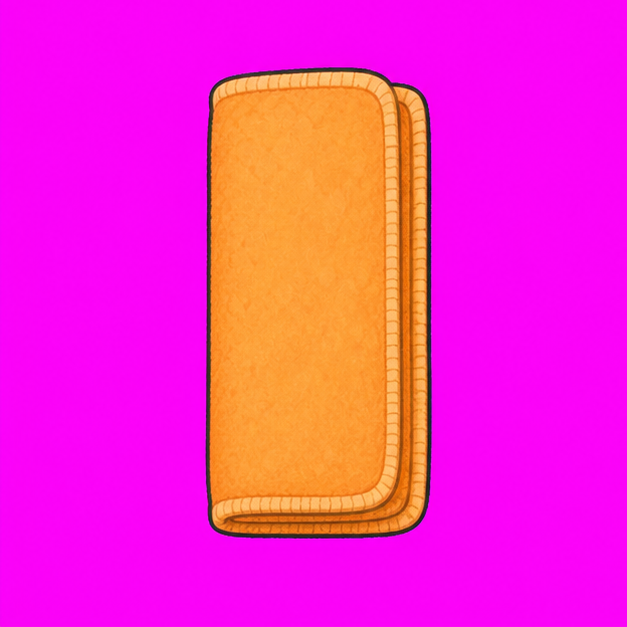
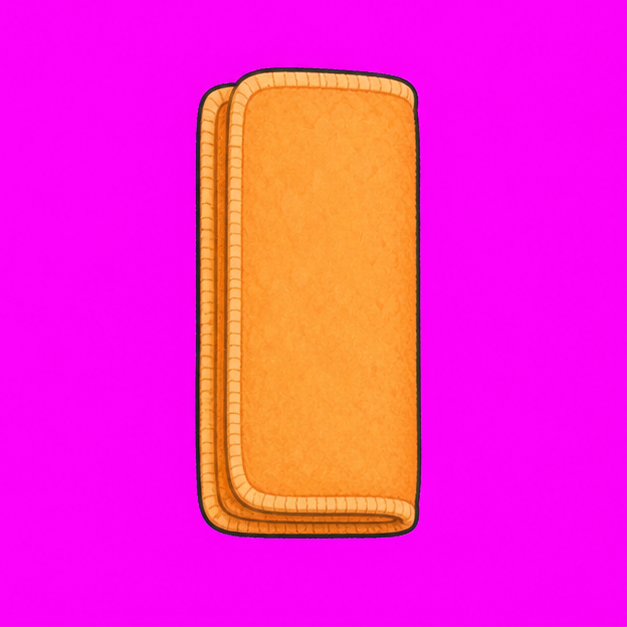
Expand Laundry Sorter pattern matching

Changed region(s): [[0.303, 0.0909, 0.697, 0.8788]]

diff --git a/games/laundry-sorter/js/main.js b/games/laundry-sorter/js/main.js
@@ -27,7 +27,7 @@ const state = {
   selected: null,
   foldIndex: 0,
   foldStep: 0,
-  matchedColors: [],
+  matchedDesigns: [],
   muted: false,
   fast: false,
   seed: 42,
@@ -38,6 +38,8 @@ let sortItems = [];
 let activeBins = [];
 let previousSortColors = '';
 let pairCards = [];
+let pairDeckCursor = 0;
+let activePairDeck = null;
 let rng = mulberry32(state.seed);
 let roundSerial = 0;
 let disposers = [];
@@ -59,7 +61,7 @@ function preloadCriticalImages() {
       ...(item.items || []).map((entry) => entry.art),
       ...(item.bins || []).map((entry) => entry.art),
       ...(item.foldItems || []).flatMap((entry) => entry.stages.map((stage) => stage.art)),
-      ...(item.colors || []).filter((entry) => typeof entry === 'object').map((entry) => entry.art),
+      ...(item.designs || []).map((entry) => entry.art),
     ]),
   ]);
   return Promise.all([...urls].map((url) => new Promise((resolve) => {
@@ -188,12 +190,14 @@ function showSplash({ greet = true } = {}) {
   state.selected = null;
   state.foldIndex = 0;
   state.foldStep = 0;
-  state.matchedColors = [];
+  state.matchedDesigns = [];
   mode = null;
 
   const sortMode = config.modes.find((item) => item.id === 'sort');
   const foldMode = config.modes.find((item) => item.id === 'fold');
   const pairMode = config.modes.find((item) => item.id === 'pairs');
+  const splashPair = pairMode.designs.find((item) => item.id === 'purple-moons')
+    || pairMode.designs[0];
   const cards = [
     {
       mode: sortMode,
@@ -206,8 +210,8 @@ function showSplash({ greet = true } = {}) {
     },
     {
       mode: pairMode,
-      art: `<img class="art-left" src="${YELLOW_SOCK}" alt="">
-            <img class="art-right" src="${YELLOW_SOCK}" alt="">`,
+      art: `<img class="art-left" src="${splashPair.art}" alt="">
+            <img class="art-right" src="${splashPair.art}" alt="">`,
     },
   ];
 
@@ -264,7 +268,7 @@ async function startMode(modeId) {
   state.selected = null;
   state.foldIndex = 0;
   state.foldStep = 0;
-  state.matchedColors = [];
+  state.matchedDesigns = [];
   rng = mulberry32((state.seed + Math.imul(roundSerial, 0x9e3779b9)) >>> 0);
   roundSerial += 1;
 
@@ -764,20 +768,26 @@ async function swapFoldStage(image, direction, nextArt) {
 
 function renderPairs() {
   clearScreen();
-  const colors = shuffle(mode.colors.slice(), rng).slice(0, 3);
-  pairCards = makePairDeck(colors);
+  activePairDeck = mode.decks[pairDeckCursor % mode.decks.length];
+  pairDeckCursor += 1;
+  const designsById = new Map(mode.designs.map((design) => [design.id, design]));
+  const designs = activePairDeck.designs.map((id) => designsById.get(id)).filter(Boolean);
+  pairCards = makePairDeck(designs);
   state.progress = 0;
   state.selected = null;
-  state.matchedColors = [];
+  state.matchedDesigns = [];
   mount.innerHTML = `
     <section class="screen play-screen pairs-screen" aria-label="Find the matching sock pairs">
       ${hudMarkup(0)}
       <div class="play-layout">
-        <div class="pairs-board">
+        <div class="pairs-board" data-deck="${activePairDeck.id}"
+             data-difficulty="${activePairDeck.difficulty}">
           <div class="pair-line" aria-label="Matched sock pairs"></div>
           <div class="pair-grid">
             ${pairCards.map((card) => `
               <button class="pair-card" type="button" data-card="${card.instance}"
+                      data-design="${card.id}" data-family="${card.family}"
+                      data-pattern="${card.pattern}"
                       data-target="pair-${card.instance}" aria-label="${card.alt}">
                 <img src="${card.art}" alt="">
               </button>`).join('')}
@@ -793,16 +803,16 @@ function renderPairs() {
   updateProgress(0);
 }
 
-function makePairDeck(colors) {
-  // Deal one of each colour per row, then rotate the second row so a matching
+function makePairDeck(designs) {
+  // Deal one of each design per row, then rotate the second row so a matching
   // pair can never land directly above/below itself (an accidentally trivial
   // board at seed 42 exposed why a plain six-card shuffle was not enough).
-  const top = shuffle(colors.slice(), rng)
-    .map((color) => ({ ...color, instance: `${color.id}-a`, matched: false }));
+  const top = shuffle(designs.slice(), rng)
+    .map((design) => ({ ...design, instance: `${design.id}-a`, matched: false }));
   const shift = rng() < .5 ? 1 : 2;
   const bottom = top.map((_, index) => {
-    const color = top[(index + shift) % top.length];
-    return { ...color, instance: `${color.id}-b`, matched: false };
+    const design = top[(index + shift) % top.length];
+    return { ...design, instance: `${design.id}-b`, matched: false };
   });
   return [...top, ...bottom];
 }
@@ -854,7 +864,7 @@ async function attemptPair(cardId) {
   element?.classList.add('is-matched');
   playSfx('whoosh');
   await delay(340);
-  state.matchedColors.push(card.id);
+  state.matchedDesigns.push(card.id);
   state.progress += 1;
   const line = mount.querySelector('.pair-line');
   line?.insertAdjacentHTML('beforeend', `
@@ -908,7 +918,7 @@ function showCelebration() {
   state.inputLocked = false;
   const art = finishedMode.id === 'fold'
     ? finishedMode.foldItems[0].stages.at(-1).art
-    : finishedMode.id === 'pairs' ? YELLOW_SOCK : BASKET;
+    : finishedMode.id === 'pairs' ? (pairCards[0]?.art || YELLOW_SOCK) : BASKET;
   mount.innerHTML = `
     <section class="screen celebration" aria-label="${finishedMode.title} complete">
       ${bubbleMarkup(16)}
@@ -1060,6 +1070,8 @@ window.QLOBE_DEBUG = {
     state.seed = Number(number) >>> 0;
     roundSerial = 0;
     previousSortColors = '';
+    pairDeckCursor = 0;
+    activePairDeck = null;
     rng = mulberry32(state.seed);
     return state.seed;
   },

diff --git a/games/laundry-sorter/index.html b/games/laundry-sorter/index.html
@@ -7,12 +7,12 @@
   <meta name="mobile-web-app-capable" content="yes" />
   <meta name="theme-color" content="#39aef3" />
   <title>Laundry Sorter — Sort, Fold, and Match</title>
-  <meta name="description" content="Sort colorful socks, fold soft towels, and find matching pairs in a cheerful storybook laundry room for ages 5–6." />
+  <meta name="description" content="Sort colorful clothes, fold shirts, pants, and towels, and match a growing collection of patterned socks in a cheerful storybook laundry room for ages 5–6." />
 
   <meta property="og:type" content="website" />
   <meta property="og:site_name" content="QLOBE Kids" />
   <meta property="og:title" content="Laundry Sorter — Sort, Fold, and Match" />
-  <meta property="og:description" content="Three playful laundry chores for little home helpers." />
+  <meta property="og:description" content="Three playful laundry chores with realistic folding and twelve colorful sock patterns." />
   <meta property="og:url" content="https://qlo.be/games/laundry-sorter/" />
   <meta property="og:image" content="https://qlo.be/games/laundry-sorter/assets/og-image.jpg" />
   <meta property="og:image:type" content="image/jpeg" />
@@ -22,7 +22,7 @@
 
   <meta name="twitter:card" content="summary_large_image" />
   <meta name="twitter:title" content="Laundry Sorter — Sort, Fold, and Match" />
-  <meta name="twitter:description" content="Three playful laundry chores for little home helpers." />
+  <meta name="twitter:description" content="Three playful laundry chores with realistic folding and twelve colorful sock patterns." />
   <meta name="twitter:image" content="https://qlo.be/games/laundry-sorter/assets/og-image.jpg" />
 
   <link rel="icon" type="image/png" href="../../assets/favicon.png" />

diff --git a/games/laundry-sorter/game-design.md b/games/laundry-sorter/game-design.md
@@ -15,7 +15,7 @@ Each mode has one skill:
 
 1. **Sort It** — visual colour categorisation across varied garments.
 2. **Fold It** — broad directional swipes and three-step physical sequencing.
-3. **Find the Pairs** — visual matching and working memory.
+3. **Find the Pairs** — color-and-pattern matching and working memory.
 
 There are no scores, timers, locked content, ratings, or failure states.
 
@@ -78,7 +78,9 @@ physical intermediate after every successful swipe:
 
 - shirt: left side in → right side in → bottom up;
 - pants: one leg over → legs up → up once more;
-- towel: left side in → right side in → bottom up.
+- towel: left side in → right side in → bottom up. The second-fold sprite
+  mirrors the layered edge to the left, so the visible overlap agrees with the
+  right-to-left gesture that created it.
 
 Every intermediate shows layered fabric edges and a new silhouette; no step is
 represented by scaling or squashing the flat garment. The finished item joins
@@ -86,10 +88,17 @@ the tidy stack. A shirt, pants, and towel complete the round.
 
 ### Find the Pairs (35–70 seconds)
 
-Six face-up socks form three colour pairs. The child taps one, then another.
-Matching socks clip onto the window line together. Different socks wobble
-playfully, remain visible, and are ready for another choice. Three pairs complete
-the round.
+Six face-up socks form three exact color-and-pattern pairs. The child taps one,
+then another. Matching socks clip onto the window line together. Different
+socks wobble playfully, remain visible, and are ready for another choice. Three
+pairs complete the round.
+
+Twelve sock designs support eight curated decks. The first rounds use
+high-contrast colors and large, distinct motifs. Later rounds deliberately
+place two socks from the same color family together—dots versus hearts, stars
+versus zigzags, stripes versus diamonds, flowers versus stripes, or moons
+versus checks—so replay adds perceptual difficulty instead of merely
+rearranging the same four choices.
 
 ## Spoken script (verbatim)
 
@@ -103,8 +112,8 @@ the round.
 | `fold-again` | “Keep going. Follow the next fold.” |
 | `fold-nudge` | “Start on the clothing, and follow the arrow.” |
 | `fold-cheer` | “A shirt, pants, and towel, folded and tidy!” |
-| `pairs-prompt` | “Find two socks that match.” |
-| `pairs-nudge` | “Those are different. Find the same color.” |
+| `pairs-prompt` | “Find two socks with the same color and pattern.” |
+| `pairs-nudge` | “Those are different. Match both the color and pattern.” |
 | `pairs-cheer` | “You found every matching pair!” |
 
 Recorded teacher-voice clips are the primary channel. Web Speech uses these
@@ -116,6 +125,7 @@ exact lines when a clip is missing or cannot play.
 | --- | --- | --- |
 | `assets/room.webp` | Full-bleed play/splash plate | GPT Image 2, 4:3, optimized WebP |
 | `assets/fold/{shirt,pants,towel}-{0..3}.webp` | Twelve physical fold stages | GPT Image 2 reference-guided sprite sheets → chroma extraction → lossless alpha WebP |
+| `assets/pairs/*.webp` | Eight additional patterned socks | GPT Image 2 reference-guided sprites → chroma extraction → lossless alpha WebP |
 | shared Storybook clothes | Expanded sorting pool and pair cards | Existing QLOBE cutouts; authoring-time colour variants use deterministic CSS filters |
 | shared Storybook baskets | Four colour sort targets and splash set dressing | Existing QLOBE cutouts; deterministic colour variants |
 | `assets/hub/tiles/laundry-sorter.jpg` | Catalog tile | Studio `menu-game-tile`, Krea 2 Toy Table |
@@ -149,7 +159,9 @@ controls are HTML/CSS, never baked into generated art.
 - Sort and pair layouts use deterministic seeded shuffles.
 - Sort chooses two of four colours per round and six pieces from a seventeen-item
   garment pool. Replay advances the seed stream so both colours and shapes vary.
-- Pair mode chooses three colours from four on each round.
+- Pair mode cycles through eight curated three-design decks from a twelve-sock
+  library. Replay always changes the full set before repeating, while later
+  decks introduce same-color/different-pattern distractors.
 - Fold progresses from shirt to pants to towel, but each item has its own
   physically meaningful three-direction sequence.
 
@@ -212,19 +224,21 @@ Debug taps use the same handlers as real child input.
 
 ## Production QA evidence
 
-2026-07-29 revised local production candidate:
+2026-07-29 patterned-pairs playtest revision:
 
-- real Chrome game-local suite: **41/41** checks;
+- real Chrome game-local suite: **46/46** checks;
 - hub launch, all three renamed modes, live finger-tracked drag, continuous
   drop-to-basket travel, a different colour/garment deal on replay, all shirt,
-  pants, and towel fold stages, gentle-retry branches, celebrations, recorded
-  AAC teacher voice, portrait, 1180×520 short landscape, and reduced motion
-  covered;
+  pants, and towel fold stages (including the corrected left-facing second
+  towel fold), three exact visual pairs per deck, a completely changed sock set
+  on replay, ten distinct designs observed over four rounds, same-color pattern
+  distractors, gentle-retry branches, celebrations, recorded AAC teacher
+  voice, portrait, 1180×520 short landscape, and reduced motion covered;
 - zero unexpected page errors, failed requests, HTTP errors, remote runtime
   requests, or 404s;
 - full validator: 154 subjects, 0 errors (23 pre-existing catalog warnings);
 - registry sync and usage-index drift checks pass;
 - full-detail screenshots reviewed for splash, each play field, success, portrait,
-  and short landscape. This revision additionally caught and fixed the moving
-  clone's missing fixed-position origin, colour-filter loss on dragged variants,
-  first-fold sprite ambiguity, and towel/ribbon crowding before release.
+  short landscape, the first pattern replay, the same-color advanced deck, and
+  both towel intermediate stages. Alpha contact-sheet review covered all eight
+  new generated socks.

diff --git a/games/laundry-sorter/ASSETS.md b/games/laundry-sorter/ASSETS.md
@@ -9,6 +9,7 @@ All model calls are authoring-time only. Runtime is static and offline.
 | --- | --- | --- | --- |
 | `assets/room.webp` | GPT Image 2 via the built-in image generation tool, using the concept's `02-sort-socks.png` only as a style/composition reference | Source retained at `assets/source/room-gpt-image-2.png`; resized to 1600×1200 and encoded as quality-88 WebP (64 KB) | CC BY 4.0 |
 | `assets/fold/{shirt,pants,towel}-{0..3}.webp` | GPT Image 2 via the built-in image generation tool, reference-guided from the existing Storybook shirt, pants, and towel | Three 2×2 source sheets retained under `assets/source/gpt-image-2-fold/`; split, chroma extracted with the imagegen helper, edge-contracted/despilled, and encoded as lossless exact-alpha WebP | CC BY 4.0 |
+| `assets/pairs/*.webp` | GPT Image 2 via the built-in image generation tool, reference-guided from the existing Storybook socks | Eight individual sources retained under `assets/source/gpt-image-2-pairs/`; chroma extracted with the imagegen helper, edge-contracted/despilled, resized to 512×512, and encoded as lossless exact-alpha WebP | CC BY 4.0 |
 | `../../assets/hub/tiles/laundry-sorter.jpg` | Studio `menu-game-tile`: Krea 2 Toy Table, seed 42 | 640×533 JPEG (52 KB), replacing the previous beta tile | CC BY 4.0 |
 | Shared Storybook socks, shirts, scarf, mitten, cap, pants, and baskets | Existing QLOBE Kids `shared/assets/storybook/` pilot set | Reused with deterministic runtime colour transforms to make a seventeen-piece, four-colour sorting pool | CC BY 4.0 |
 
@@ -64,7 +65,36 @@ extra clothing, and decoration.
 
 The generated sheets and every extracted PNG are retained next to the runtime
 WebPs so the fold sequence can be re-cut or re-encoded without another model
-call.
+call. Following the 2026-07-29 playtest, the separated towel stage 2 was
+mirrored horizontally (without regenerating or altering its shape) so its
+left-facing layered seam agrees with the right-side-in gesture.
+
+## GPT Image 2 patterned sock prompt set
+
+Use case: `illustration-story`. Built-in image generation mode.
+
+Each of eight calls used the matching shared Storybook sock as a style and
+silhouette reference and requested one original chunky ankle sock, toe pointing
+right, with crisp dark-navy outlines, rounded preschool geometry, subtle
+painted fabric texture, glossy highlights, generous square-canvas padding, and
+a perfectly flat removable chroma background. Every prompt prohibited extra
+socks, clothing, people, hands, feet, shadows, text, logos, watermarks, panels,
+photorealism, and 3D rendering.
+
+- coral red with large cream hearts;
+- cobalt blue with broad aqua zigzags;
+- sunny yellow with large orange diamonds;
+- grassy green with cream flowers and yellow centers;
+- grape purple with pale-yellow crescent moons;
+- grape purple with lavender-and-aqua checks;
+- bright aqua with coral/yellow/deep-blue rainbow arches;
+- bright aqua with broad navy waves.
+
+The red, blue, yellow, green, and aqua sprites used flat `#ff00ff`; the purple
+sprites used flat `#00ff00`. All eight alpha mattes have transparent corners,
+closed silhouettes, and no visible key-color fringe on a dark QA composite.
+They join the four existing dot, star, stripe, and green-stripe socks to form
+the twelve-design runtime library.
 
 ## Studio recipes and image QA
 
@@ -101,15 +131,16 @@ Studio converted the model result to AAC/M4A and ran `whisper-stt` QA.
 | `fold-again` | 7 | 2.396 s | exact normalized match |
 | `fold-nudge` | 7 | 2.237 s | exact normalized match |
 | `fold-cheer` | 7 | 2.956 s | exact normalized match |
-| `pairs-prompt` | 8 | 2.077 s | exact normalized match |
-| `pairs-nudge` | 7 | 2.476 s | exact normalized match |
+| `pairs-prompt` | 7 | 2.396 s | exact normalized match |
+| `pairs-nudge` | 7 | 3.435 s | exact normalized match |
 | `pairs-cheer` | 7 | 2.556 s | exact normalized match |
 
-The first `pairs-prompt` take at seed 7 was rejected because Whisper heard
-“Find two socks **at** match.” Seed 8 heard “Find two socks **that** match” and
-is the shipped take. Every recipe and `qa-transcript.json` is retained in the
-matching `assets/source/studio/laundry-voice-*` folder. Web Speech uses the same
-verbatim script as a runtime fallback.
+The earlier short `pairs-prompt` needed seed 8 because Whisper heard “Find two
+socks **at** match” at seed 7. The expanded color-and-pattern prompt and nudge
+both passed at seed 7 with exact normalized matches; their accepted v2 recipes
+are retained beside the earlier takes. Every recipe and `qa-transcript.json` is
+retained in a matching `assets/source/studio/laundry-voice-*` folder. Web
+Speech uses the same verbatim script as a runtime fallback.
 
 ## Shared runtime assets
 
